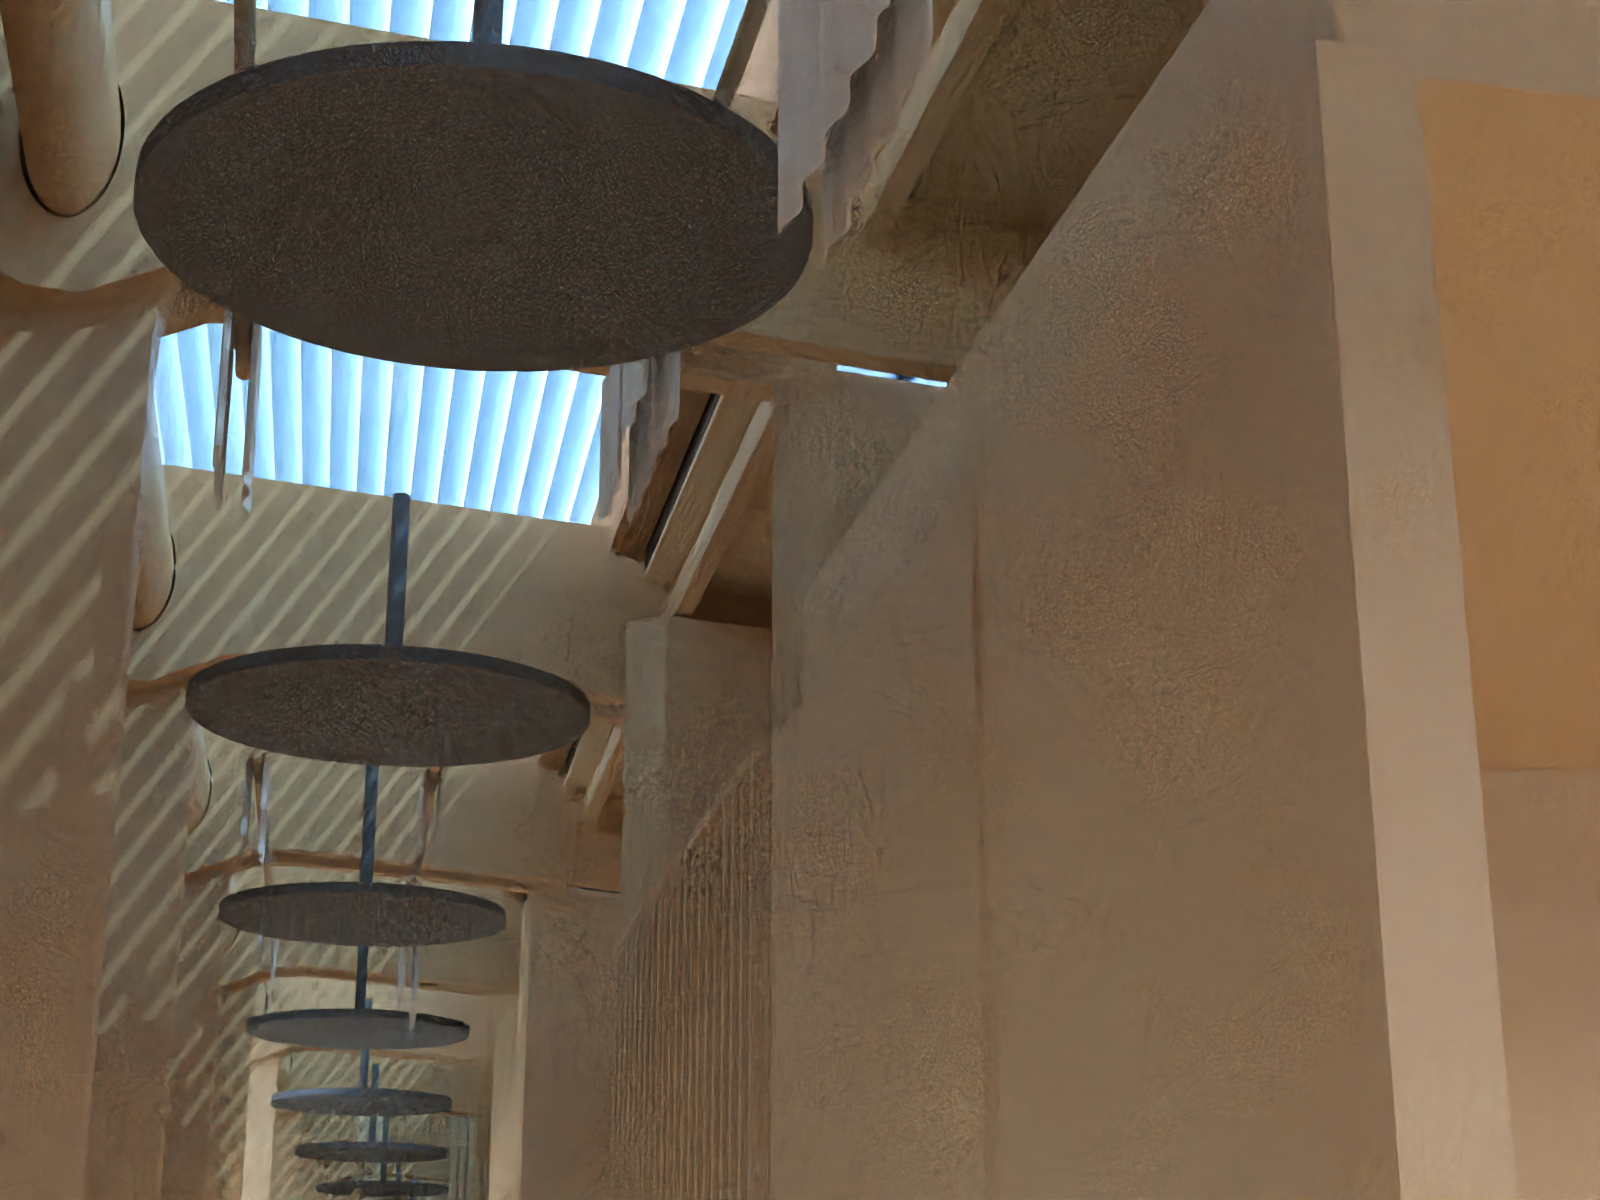
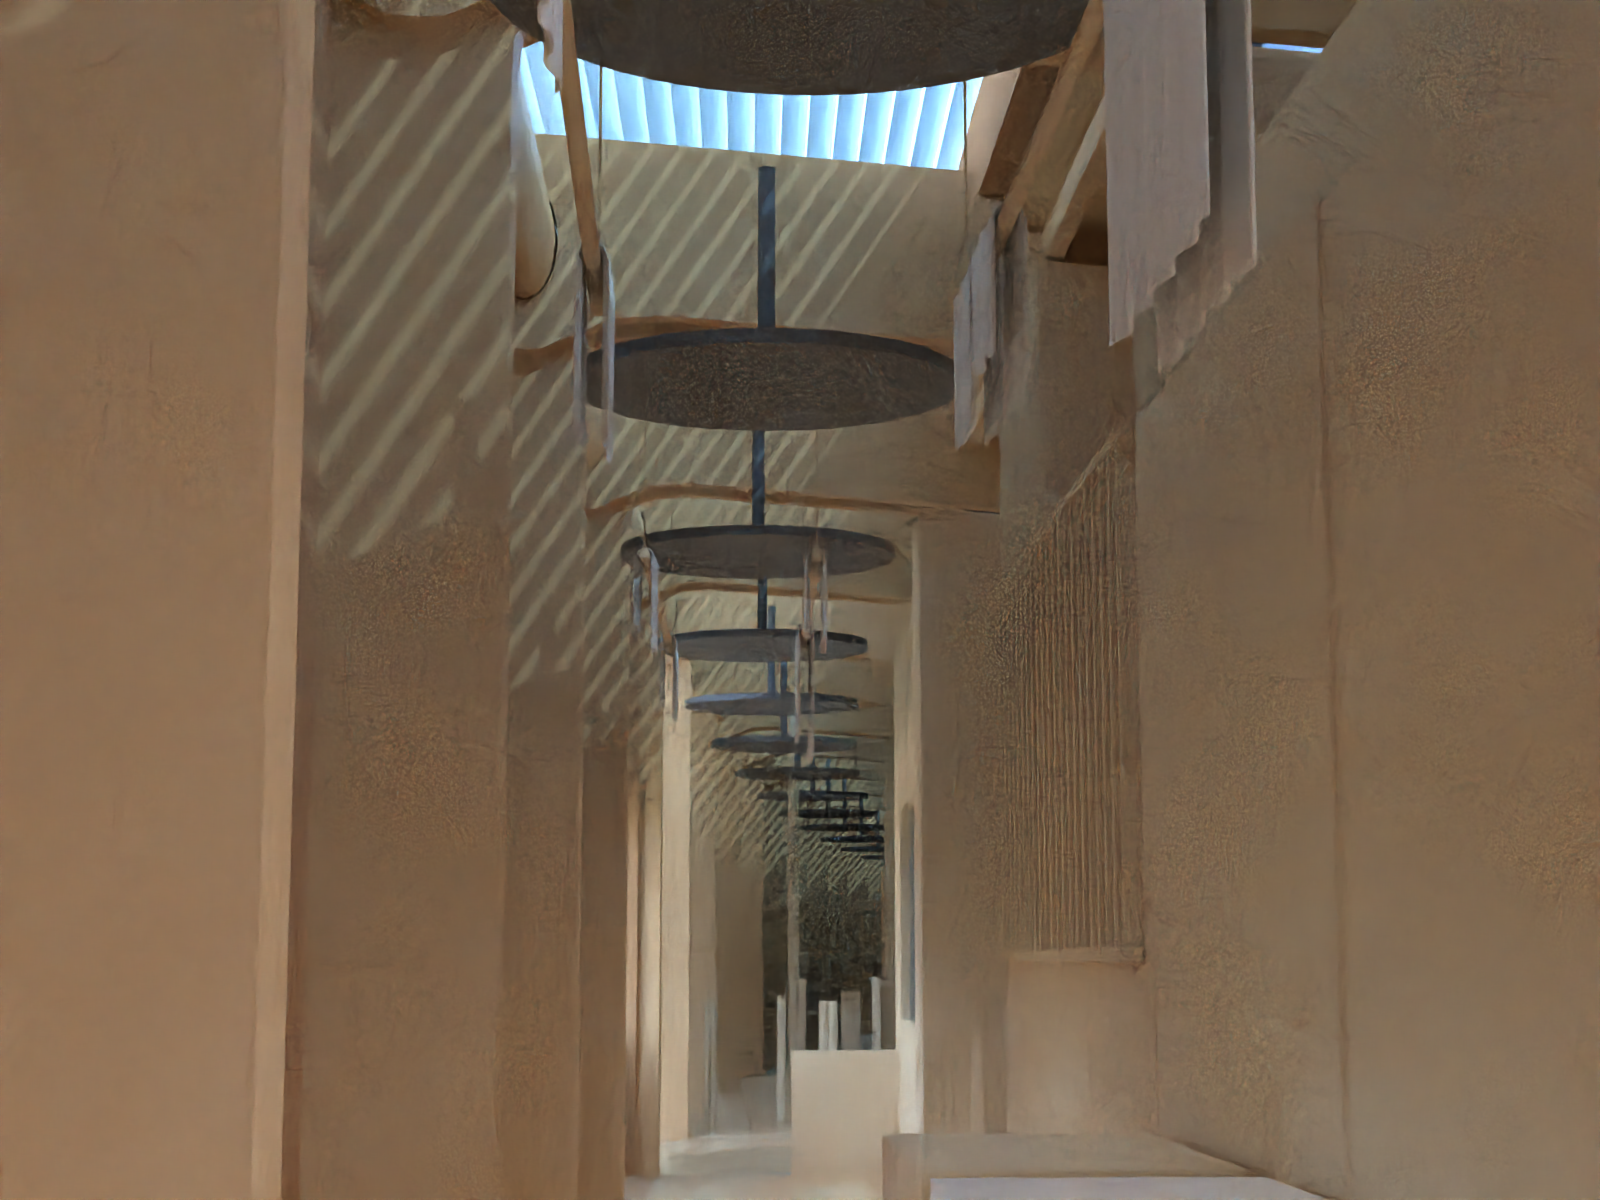
added more images

diff --git a/sodachiya/present/rhino/render_common.py b/sodachiya/present/rhino/render_common.py
@@ -59,7 +59,7 @@ ROOM_LIGHTS = [u"散乱光（曇りの日の柔らかい光、影がほとんど
 # 教室・居場所（room_）で屋根を取り去って上から見るなら散乱光（0）、外は太陽と空（前のとおり）。手で選びたいときだけ LIGHT_OVERRIDE に番号を
 LIGHT_OVERRIDE = None                           # None＝自動。0〜4 で固定
 SKYDOME_INDOOR = 3.0                            # 室内の自然光の空の明るさ（暗ければ 4〜6、窓の外が白く飛べば 2）
-AUTO_FILL_POWER = 4                          # 室内の自然光：カメラの周りの天井の下の下向きの面の光（暗ければ 2〜3、平たく白ければ 0.6）
+AUTO_FILL_POWER = 1.2                          # 室内の自然光：カメラの周りの天井の下の下向きの面の光（暗ければ 2〜3、平たく白ければ 0.6）
 AUTO_FILL_HALF = 9000.0                         # その面の光の半分の大きさ（mm、カメラを中心に 18 m 角）
 # 自然光（ユーザー 10-31：人工の光源でなく、窓から自然に入る光で）：太陽（DAY）と、場面を包む大きな半球の「空」を一時的に置く。
 # 空は内向きの面で、淡い青白に光る材料（Cycles では光る物が周りを照らす）。屋根・2階の床は残すので、光は窓・ガラスの帯・光の筋からだけ入る。
